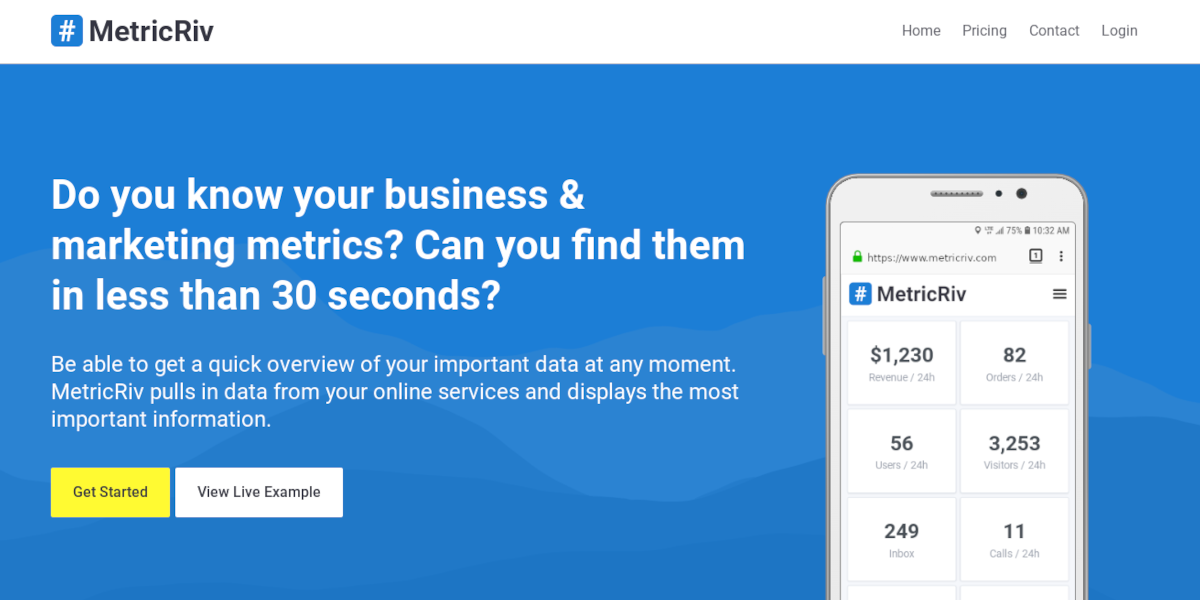
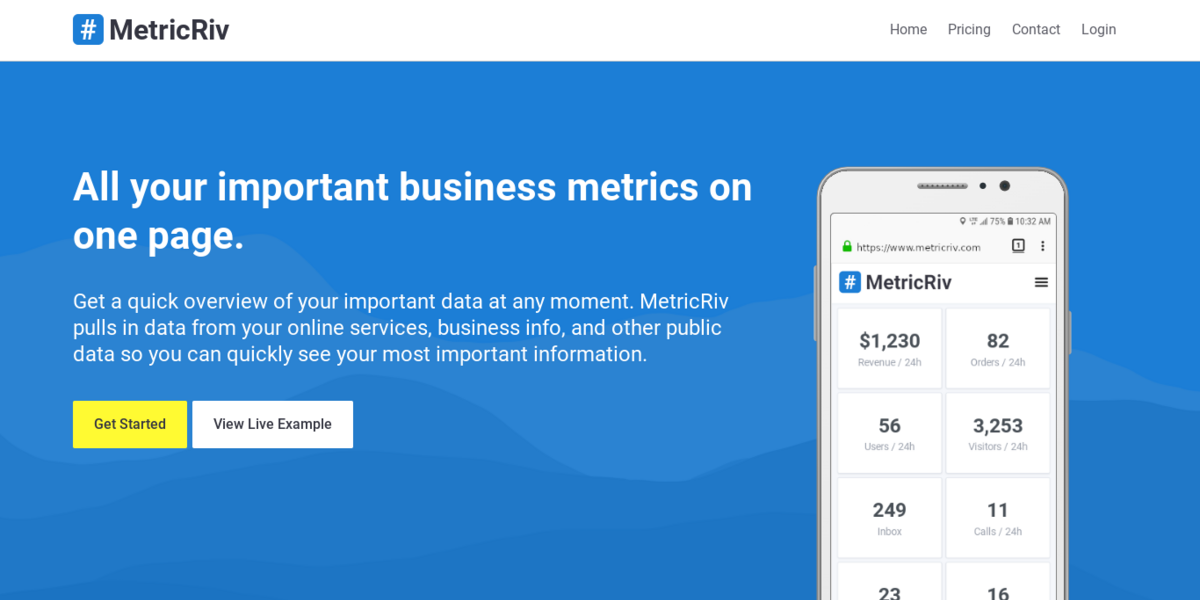
Updates the share images

diff --git a/app/views/main/home.php b/app/views/main/home.php
@@ -6,27 +6,27 @@
         <meta name="description" content="">
         <meta name="author" content="">
 
-        <title>MetricRiv.com - Fast Dashboard For Your Most Important Business Metrics</title>
+        <title>MetricRiv.com - All your business metrics on one page</title>
 
                 <link rel="preload" href="/assets/fonts/feather.woff2" as="font" crossorigin="anonymous" />
-                <link href="/assets/css/normalize.css" rel="stylesheet">
-                <link href="/assets/css/base.css" rel="stylesheet">
-                <link href="/assets/css/main.css" rel="stylesheet">
+                <link href="/assets/css/normalize.css?cache-date=<?php esc($cache_date); ?>" rel="stylesheet">
+                <link href="/assets/css/base.css?cache-date=<?php esc($cache_date); ?>" rel="stylesheet">
+                <link href="/assets/css/main.css?cache-date=<?php esc($cache_date); ?>" rel="stylesheet">
         
-                <meta property="og:title" content="MetricRiv.com - Fast Dashboard For Your Most Important Business Metrics" />
-                <meta property="og:description" content="Be able to get a quick overview of your important data at any moment. MetricRiv pulls in data from your online services and displays the most important information." />
+                <meta property="og:title" content="MetricRiv.com - All your business metrics on one page" />
+                <meta property="og:description" content="Get a quick overview of your important data at any moment. MetricRiv pulls in data from your online services, business info, and other public data so you can get quickly see your most important information." />
                 <meta property="og:type" content="website" />
                 <meta property="og:url" content="https://www.metricriv.com" />
-                <meta property="og:image" itemprop="image" content="https://www.metricriv.com/assets/images/share_1200x630.png" />
-                <meta property="og:image:secure_url" itemprop="image" content="https://www.metricriv.com/assets/images/share_1200x630.png" />
+                <meta property="og:image" itemprop="image" content="https://www.metricriv.com/assets/images/share_1200x630.png?cache-date=<?php esc($cache_date); ?>" />
+                <meta property="og:image:secure_url" itemprop="image" content="https://www.metricriv.com/assets/images/share_1200x630.png?cache-date=<?php esc($cache_date); ?>" />
                 <meta property="og:image:width" content="1200" />
                 <meta property="og:image:height" content="630" />
         
-                <link itemprop="thumbnailUrl" href="https://www.metricriv.com/assets/images/share_1200x630.png"> 
+                <link itemprop="thumbnailUrl" href="https://www.metricriv.com/assets/images/share_1200x630.png?cache-date=<?php esc($cache_date); ?>"> 
         
                 <meta name="twitter:card" content="summary_large_image">
-                <meta name="twitter:image" content="https://www.metricriv.com/assets/images/share_1200x600.png">
-        <link href="/assets/css/home.css" rel="stylesheet">
+                <meta name="twitter:image" content="https://www.metricriv.com/assets/images/share_1200x600.png?cache-date=<?php esc($cache_date); ?>">
+        <link href="/assets/css/home.css?cache-date=<?php esc($cache_date); ?>" rel="stylesheet">
     </head>
     <body class="<?php $res->pathClass(); ?>">
         <?php $res->partial('header'); ?>
@@ -35,13 +35,14 @@
             <section class="welcome">
                 <div class="container">
                     <div>
-                        <h1>Do you know your business &amp; marketing metrics? Can you find them in less than 30 seconds?</h1>
 <?php /*
+                        <h1>Do you know your business &amp; marketing metrics? Can you find them in less than 30 seconds?</h1>
                         <h1>Track Important Numbers<br>
                             With a fast dashboard!
                         </h1>
 */ ?>
-                        <p>Be able to get a quick overview of your important data at any moment. MetricRiv pulls in data from your online services and displays the most important information. </p>
+                        <h1>All your important business metrics on one page.</h1>
+                        <p>Get a quick overview of your important data at any moment. MetricRiv pulls in data from your online services, business info, and other public data so you can quickly see your most important information. </p>
                         <p>
                         <a href="/login" class="button -emphasize">Get Started</a>
                         <a href="/agraddy" class="button">View Live Example</a>
@@ -57,7 +58,7 @@
             </section>
             <section class="details">
                         <h2>Always have answers to your most important questions.
-                            <br>You choose the numbers that you want to see.</h2>
+                            <br>You choose the metrics that you want to see.</h2>
                 <div class="container">
                     <div class="numbers">
                         <div class="number">
@@ -275,6 +276,14 @@
             <section class="services">
                 <h2>If you use a service or an app that has an API or sends email reports, we can pull out your numbers. </h2>
                 <ul>
+                    <li class="logo github">Github</li>
+                    <li class="logo google_analytics">Google Analytics</li>
+                    <li class="logo mailchimp">Mailchimp</li>
+                    <li class="logo mysql">MySQL</li>
+                    <li class="logo stripe">Stripe</li>
+                    <li class="logo woocommerce">WooCommerce</li>
+                    <li class="logo wordpress">WordPress</li>
+<!--
                     <li class="logo amazon">Amazon</li>
                     <li class="logo braintree">Braintree</li>
                     <li class="logo constant_contact">Constant Contact</li>
@@ -315,8 +324,9 @@
                     <?php /*
                     <li class="logo youtube">YouTube</li>
                      */ ?>
+-->
                 </ul>
-                <h2>This is a small list of what is possible. Some of these services may require manual set up. Don't see your service, have a custom service, or have a number in mind but don't know where to pull the data? Just <a href="/contact">get in touch</a>.</h2>
+                <h2>This is a small list of what is possible. Don't see your service, have a custom service, or have a metric in mind but don't know where to pull the data? Just <a href="/contact">get in touch</a>.</h2>
             </section>
             <section class="ready">
                 <h2>Have A Metric You Want To Track?</h2>

diff --git a/app/controllers/ConsoleController.php b/app/controllers/ConsoleController.php
@@ -8,6 +8,7 @@ use app\services\TrackingService;
 
 class ConsoleController {
     public function track($in, $out) {
+        $force = false;
         //out('wait_timeout: ' . print_r(ao()->db->query('SHOW VARIABLES LIKE "%timeout"'), true));
         //out('net_read_timeout: ' . print_r(ao()->db->query('SHOW VARIABLES LIKE "net_read_timeout"'), true));
         //out('wait_timeout: ' . print_r(ao()->db->query('SHOW VARIABLES LIKE "wait_timeout"'), true));
@@ -16,13 +17,19 @@ class ConsoleController {
         //out('wait_timeout: ' . print_r(ao()->db->query('SHOW VARIABLES LIKE "wait_timeout"'), true));
         if(isset($in->params[0])) {
             $tracking_id = $in->params[0];
-            $trackings = ao()->db->query('SELECT id FROM trackings WHERE next_check_at IS NOT NULL AND next_check_at <= ? AND id = ?', now(), $tracking_id);
+            //$trackings = ao()->db->query('SELECT id FROM trackings WHERE next_check_at IS NOT NULL AND next_check_at <= ? AND id = ?', now(), $tracking_id);
+            $trackings = ao()->db->query('SELECT id FROM trackings WHERE next_check_at IS NOT NULL AND id = ?', $tracking_id);
+            $force = true;
         } else {
             $trackings = ao()->db->query('SELECT id FROM trackings WHERE next_check_at IS NOT NULL AND next_check_at <= ?', now());
         }
 
         foreach($trackings as $data) {
-            TrackingService::update($data['id']);
+            if($force) {
+                TrackingService::update($data['id'], null, true);
+            } else {
+                TrackingService::update($data['id']);
+            }
             out('Processed: ' . $data['id'], 'green');
         }
 

diff --git a/app/controllers/MainController.php b/app/controllers/MainController.php
@@ -10,7 +10,7 @@ use mavoc\core\Email;
 class MainController {
     public function home($req, $res) {
         //$res->view('home');
-        return ['title' => 'MetricRiv.com - Fast Dashboard For Your Most Important Business Numbers'];
+        return ['title' => 'MetricRiv.com - Fast Dashboard For Your Most Important Business Numbers', 'cache_date' => '2024-04-02'];
     }
 
     public function pricing($req, $res) {

diff --git a/app/App.php b/app/App.php
@@ -30,7 +30,7 @@ class App {
 
     public function cacheDate($vars, $view) {
         if($view == 'head' || $view == 'foot' || $view == 'footer') {
-            $vars['cache_date'] = '2024-01-10';
+            $vars['cache_date'] = '2024-04-02';
         }
 
         return $vars;
